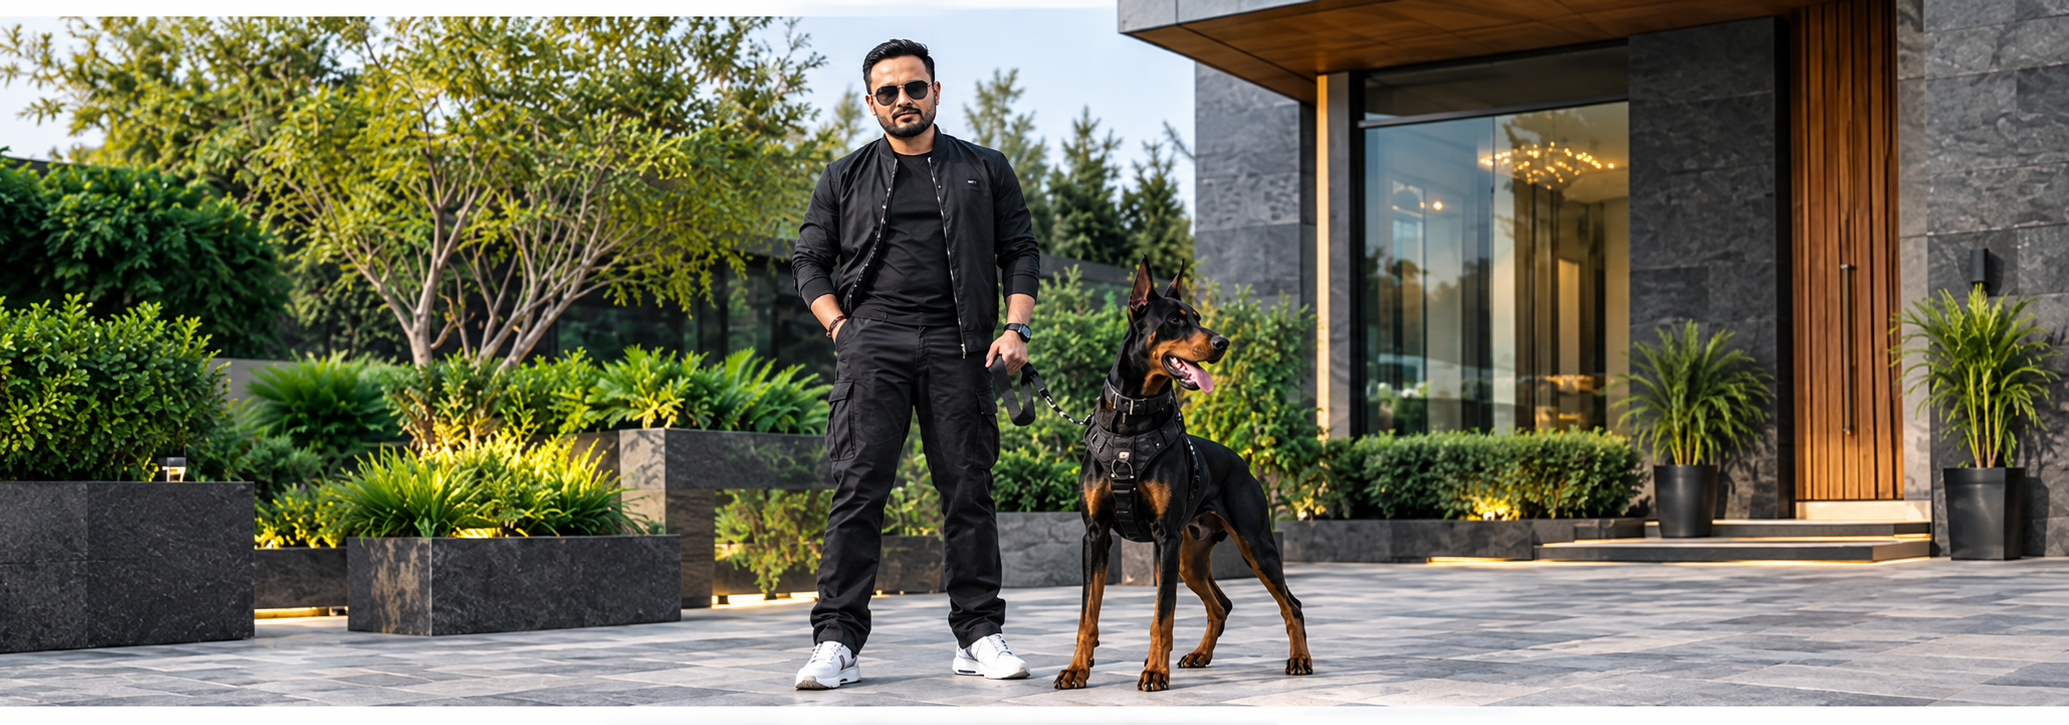
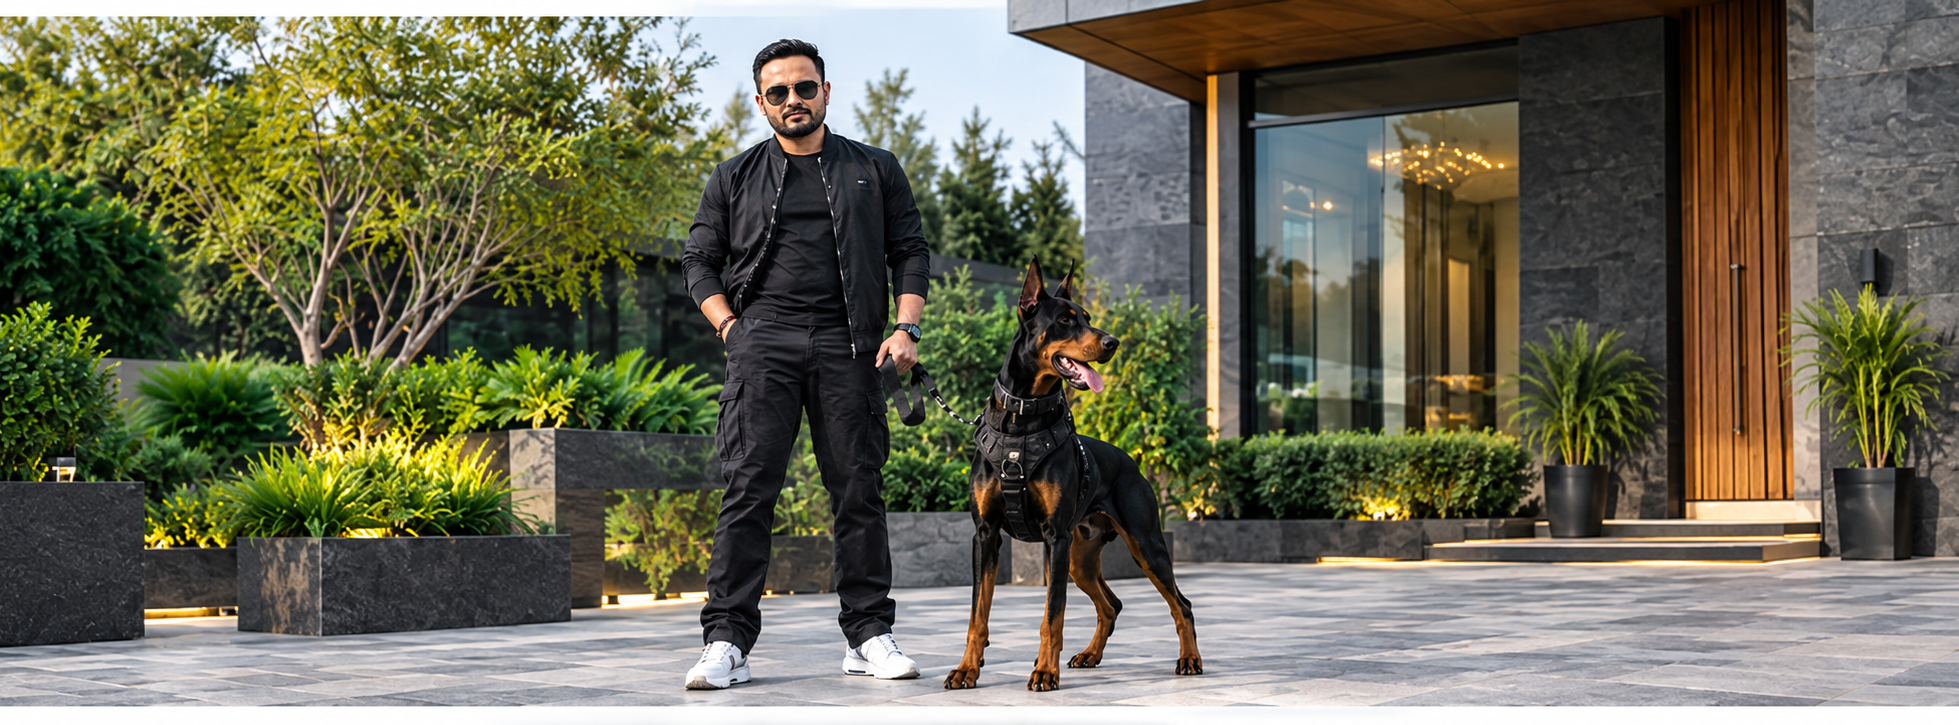
Replace desktop hero background with manWithDog2 asset.

diff --git a/src/components/home/Hero.tsx b/src/components/home/Hero.tsx
@@ -8,8 +8,9 @@ const heroImageDesktop = "/images/hero/man-with-dog.png";
 const heroImageMobile = "/images/hero/man-with-dog-mobile.png";
 
 /** Fixed px size — desktop background does not shrink with viewport */
-const HERO_BG_WIDTH_PX = 1659;
-const HERO_BG_HEIGHT_PX = 598;
+/** man-with-dog.png from media/manWithDog2.png */
+const HERO_BG_WIDTH_PX = 1959;
+const HERO_BG_HEIGHT_PX = 725;
 
 export function Hero() {
   return (
